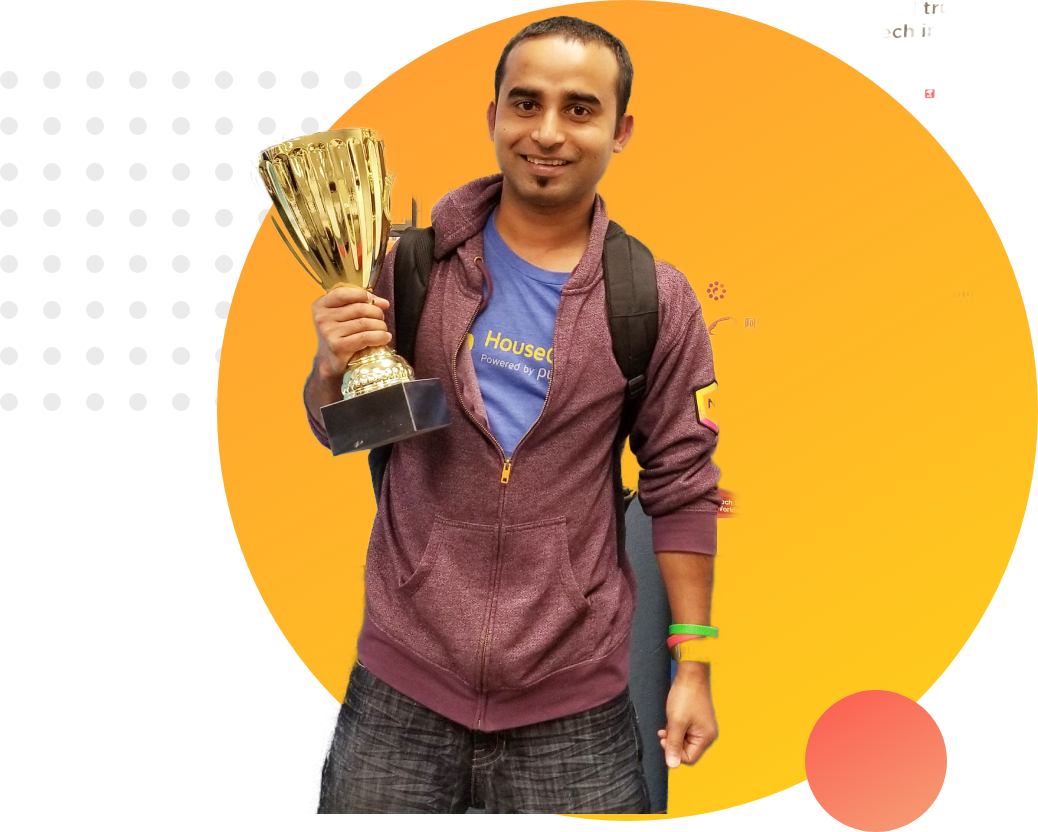
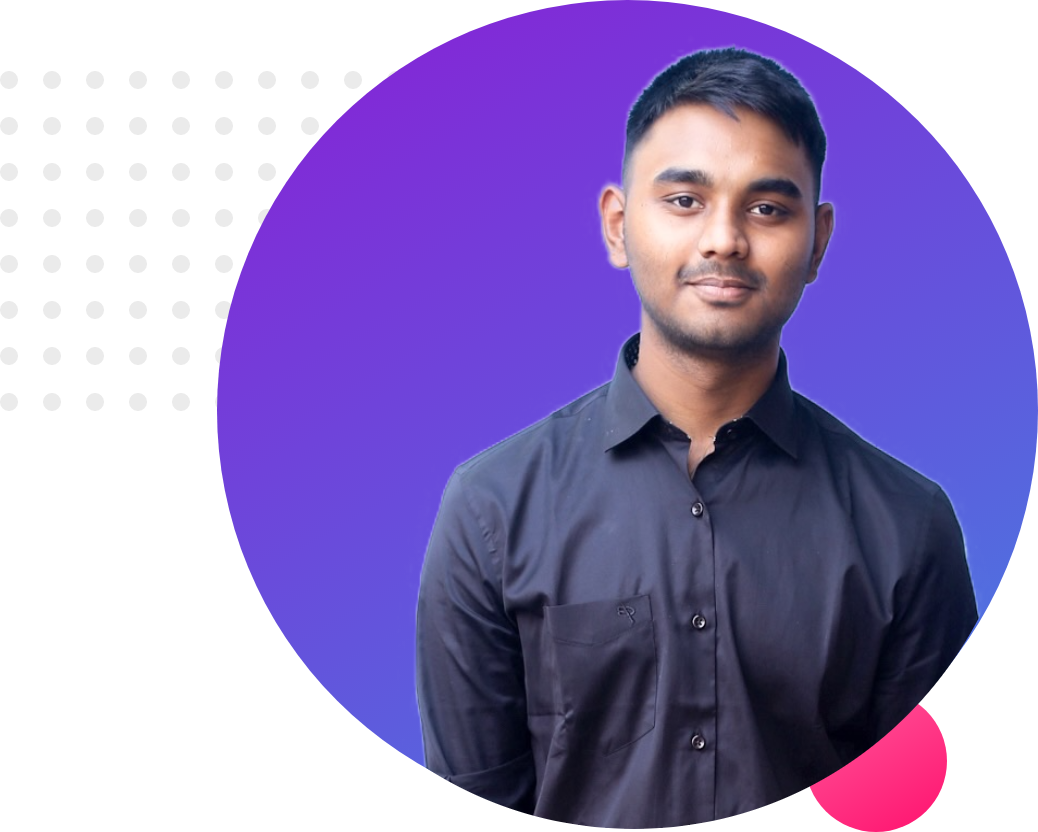
added profile of mine

diff --git a/index.html b/index.html
@@ -20,12 +20,12 @@
 <a class="anchor-css" target="_blank" href="https://www.linkedin.com/in/fardin-rafat-248390200/">HIRE ME</a>
         </div>
         <div class="half-width">
-<img src="images/profile1.jpg" alt="">
+<img src="images/profile2.png" alt="">
         </div>
     </section>
     <section class="right-side-banner">
         <div class="half-width2">
-<img src="images/profile11.png" alt="">
+<img src="images/my-bg.png" alt="">
         </div>
         <div class="half-width2">
             <h1>Goals</h1>
@@ -55,7 +55,7 @@
         </div>
     </section>
     <section class="full-width">
-        <img src="images/profile3.jpg" alt="">
+        <img src="images/profile1.jpg" alt="">
         <a target="_blank" class="anchor-css" href=" https://fardinrafatbd.github.io/important-contacts/.">Important contacts</a>
     </section>
     <footer>@Fardin Sahriar Al Rafat-2021, all rights reserved</footer>
